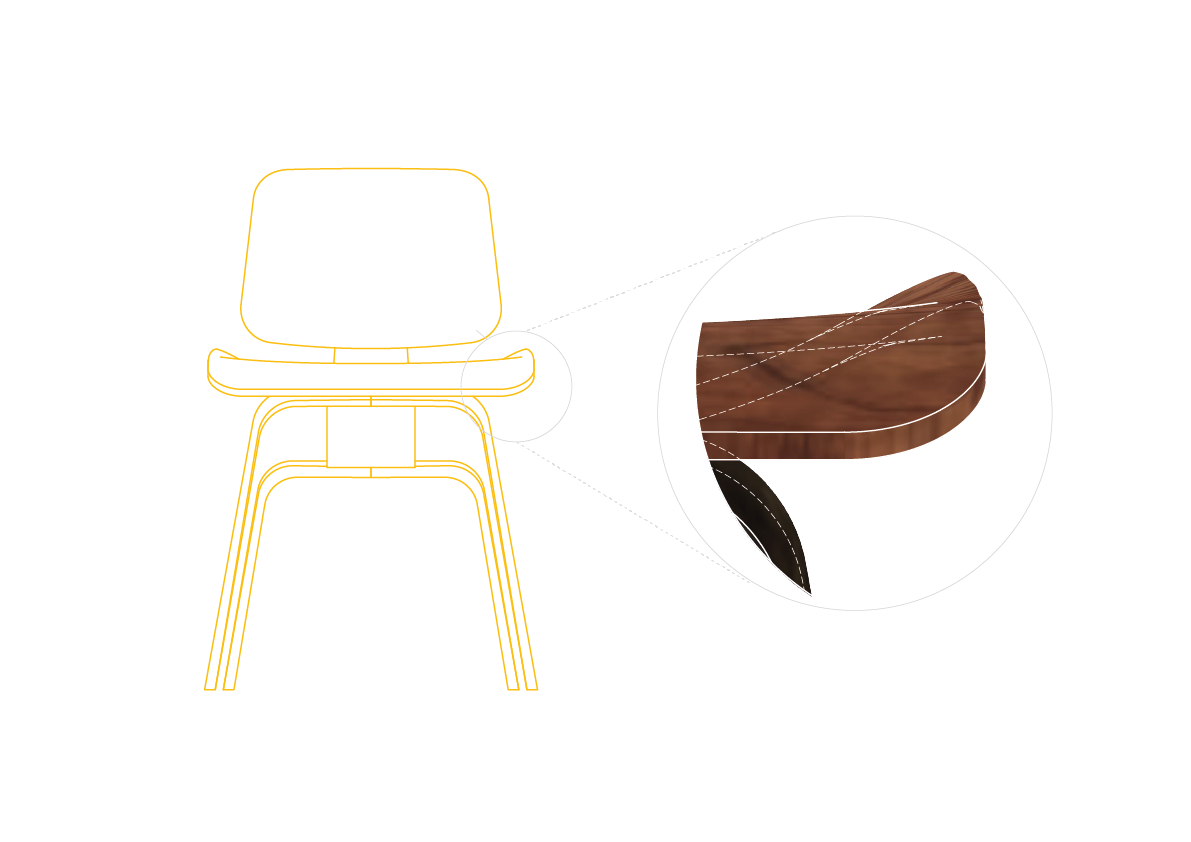
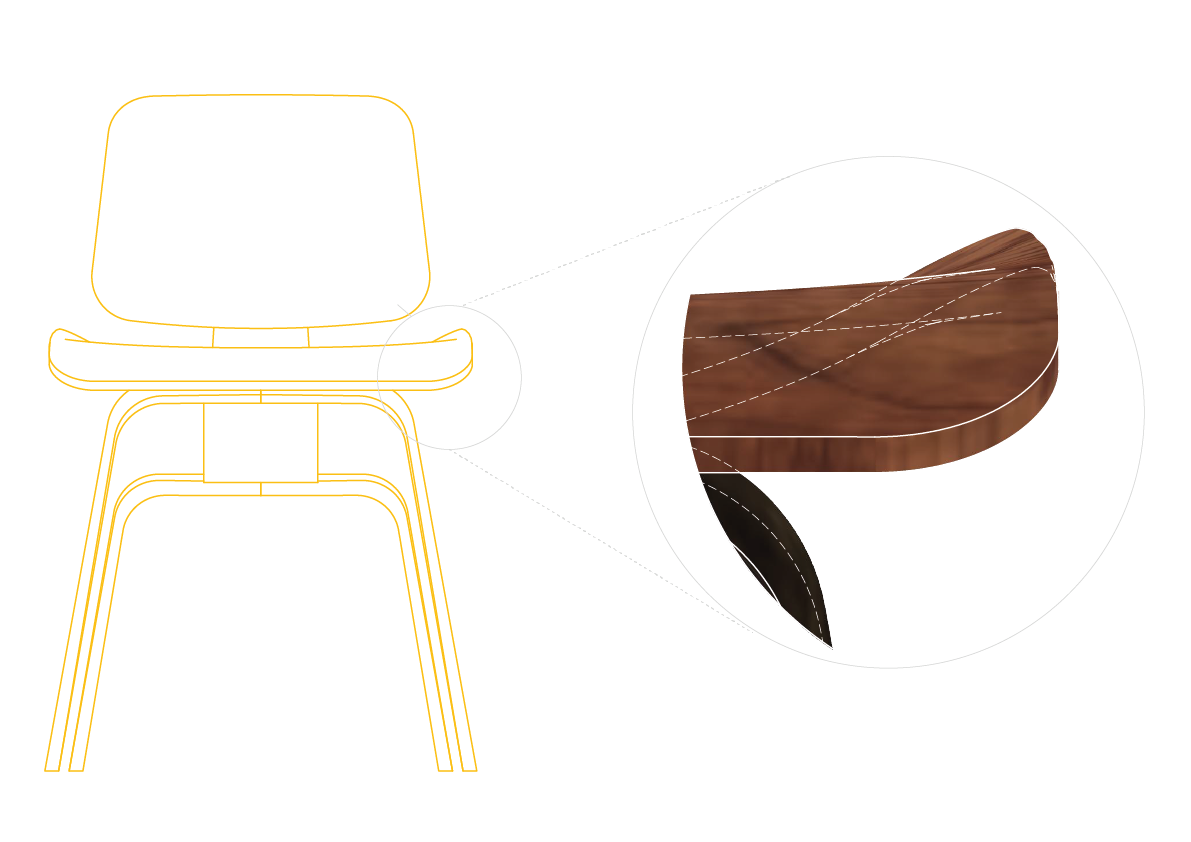
Arreglo planimetrias post1

diff --git a/docs/post-1/index.html b/docs/post-1/index.html
@@ -340,6 +340,7 @@
 <img src="/img/Plani_2.png" alt="Imagen Simple">
 <img src="/img/Plani_3.png" alt="Imagen Simple">
 <img src="/img/Plani_4.png" alt="Imagen Simple">
+<img src="/img/Zoom2.png" alt="Imagen Simple">
 <img src="/img/Plani_5.png" alt="Imagen Simple"></p>
 <div>
     <iframe 
@@ -409,6 +410,17 @@
 		          <p>Planimetria 5</p>
 			      </figcaption>
 				    <a href="https://francabezas.github.io/img/Galeria4_Post1//Planimetria_5.png" itemprop="contentUrl"></a>
+				  </figure>
+				</div>
+				<div class="box">
+				  <figure itemprop="associatedMedia" itemscope itemtype="http://schema.org/ImageObject">
+				    <div class="img" style="background-image: url('https://francabezas.github.io/img/Galeria4_Post1//Planimetria_6.png');" >
+				      <img itemprop="thumbnail" src="https://francabezas.github.io/img/Galeria4_Post1//Planimetria_6.png" alt="Planimetria 6" />
+				    </div>
+			      <figcaption>
+		          <p>Planimetria 6</p>
+			      </figcaption>
+				    <a href="https://francabezas.github.io/img/Galeria4_Post1//Planimetria_6.png" itemprop="contentUrl"></a>
 				  </figure>
 				</div>
 </div>
